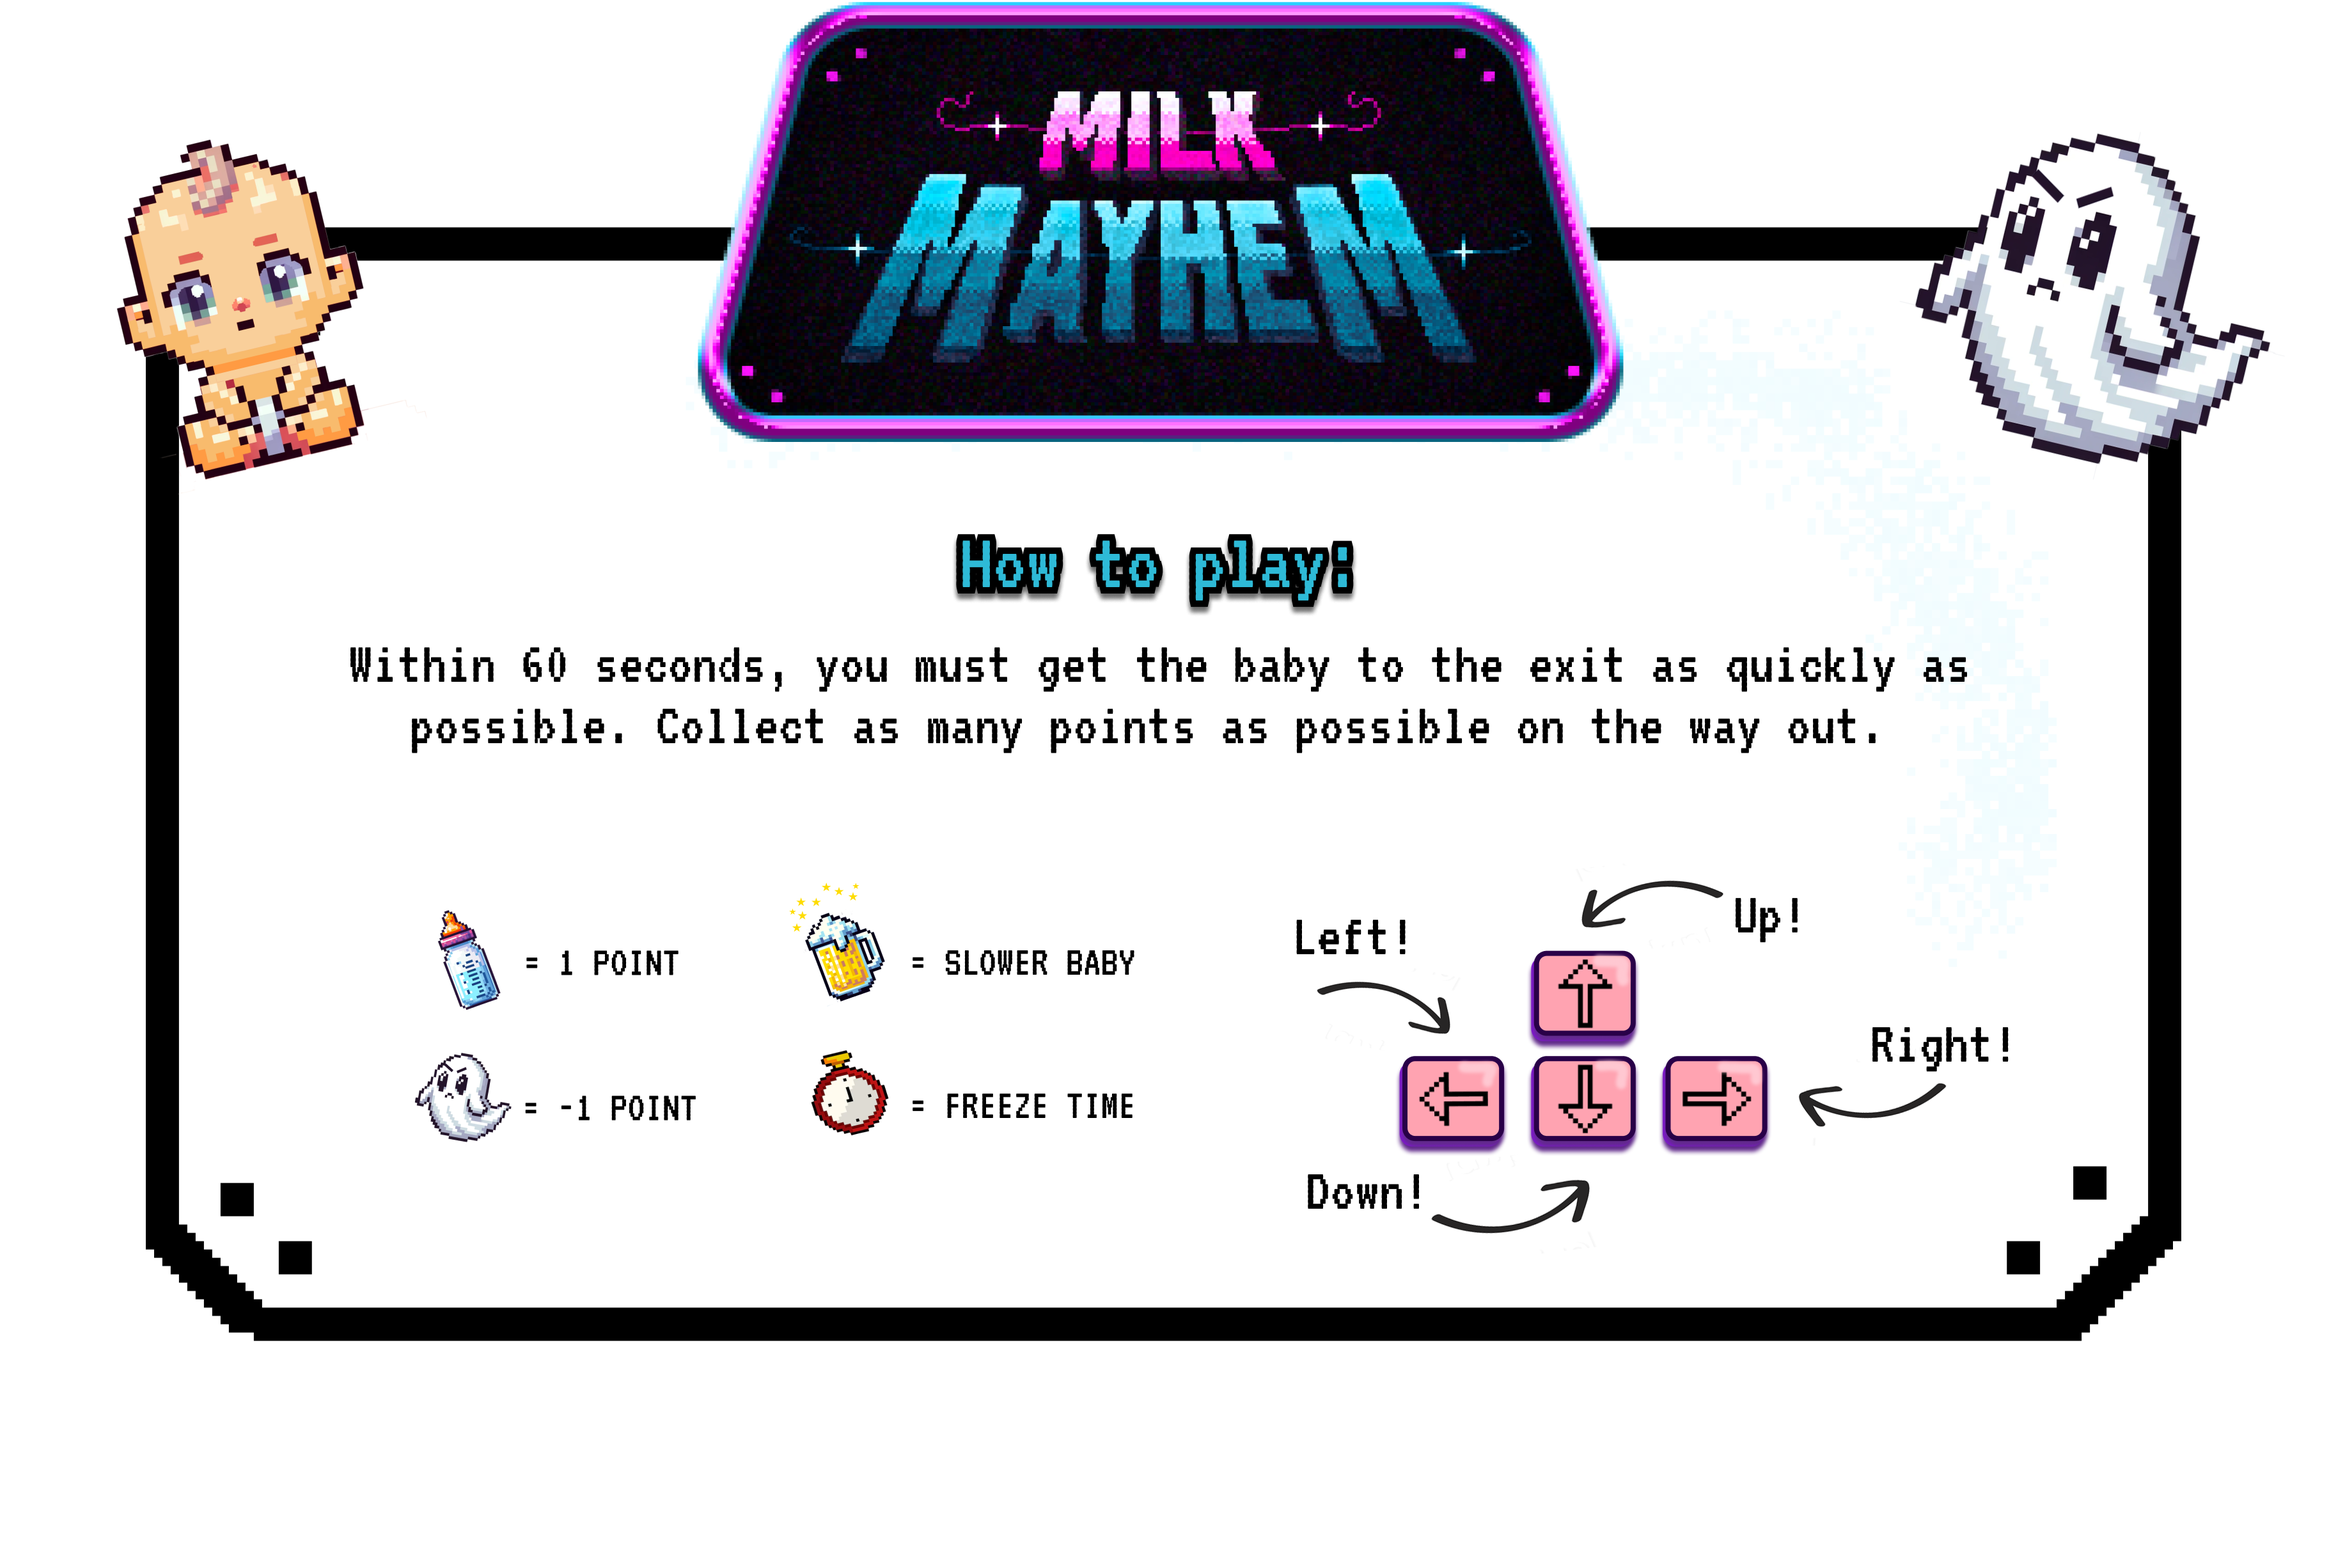
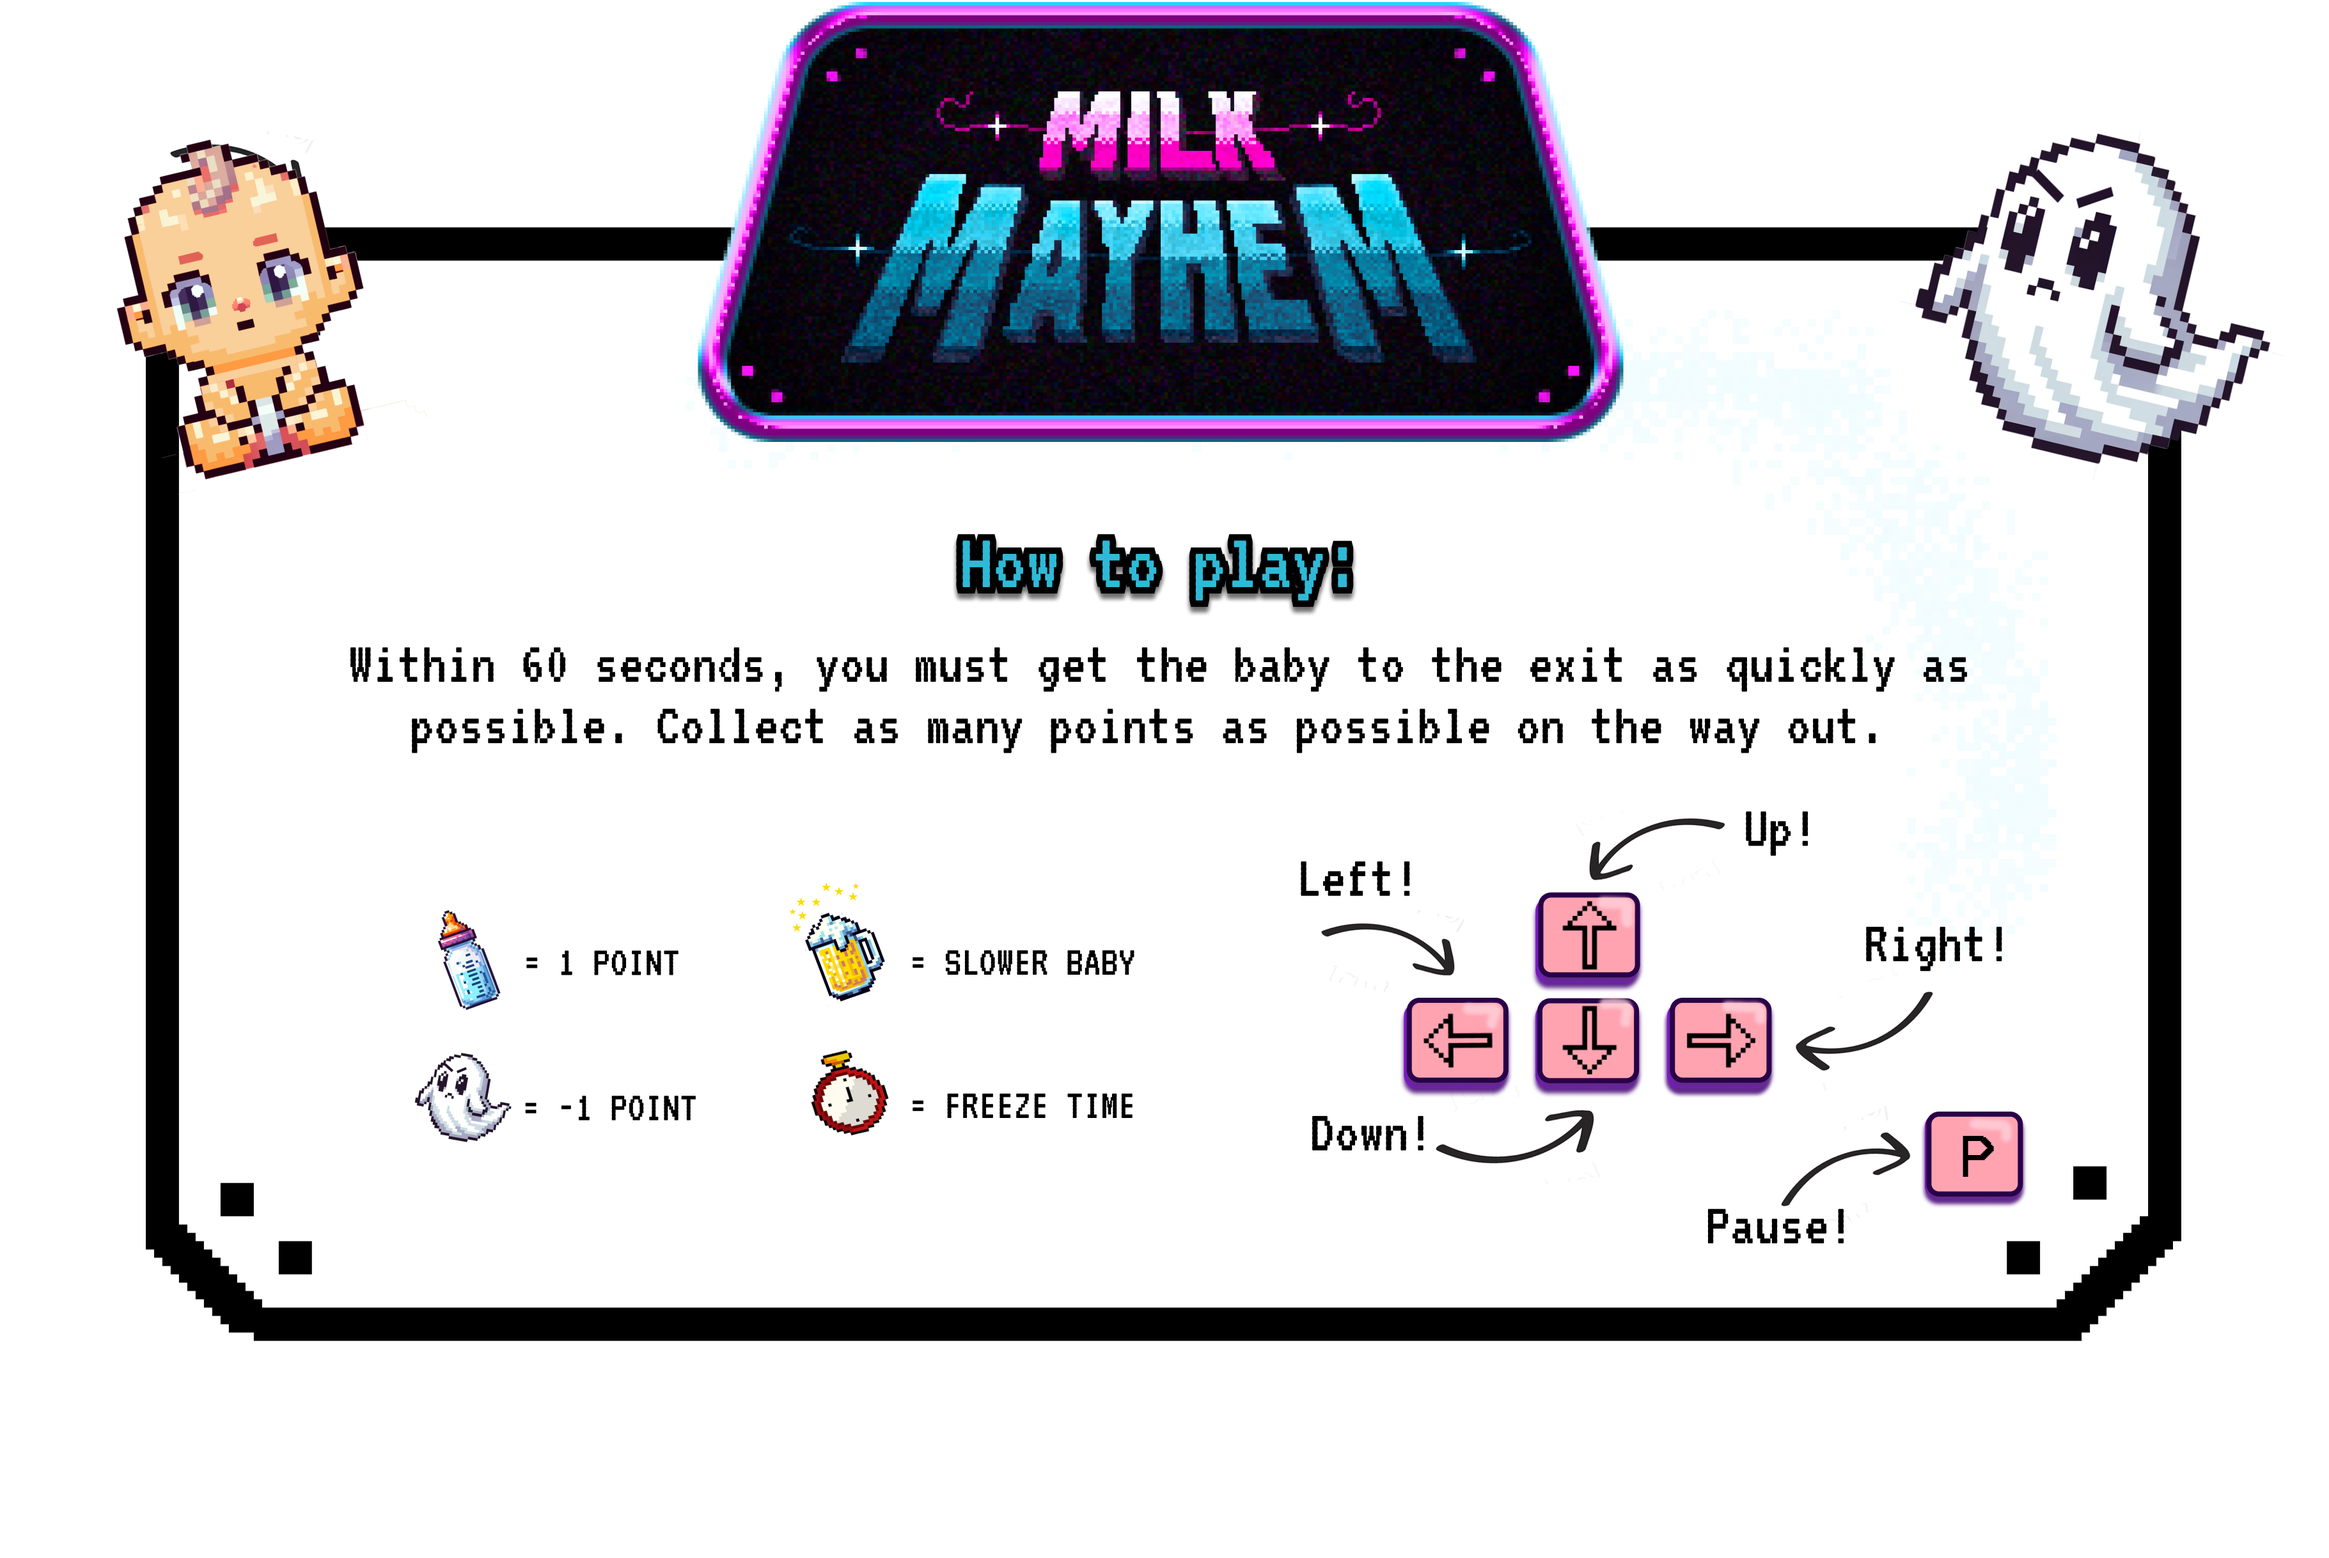
1. changed picture of beer and formula to the new ones. 2. Fixed a pause method, when you play and click "p" the gamer will be paused. 3. Escape button to return to startpage when the player is in "roadmap".
Thats all. Thank you.

diff --git a/src/Game/level.ts b/src/Game/level.ts
@@ -5,6 +5,7 @@ class Level {
   private score: number;
   private time: Time;
   private walls: Wall[];
+  private isPaused: boolean;
   private music: {
     beerSound: p5.SoundFile;
     formulaSound: p5.SoundFile;
@@ -42,7 +43,18 @@ class Level {
     //walls är en array som endast innehåller väggarna i aktiv level, detta hämtas med hjälp av filter som i sin tur hämtar alla väggar från entities
     this.walls = entities.filter((entity) => entity instanceof Wall) as Wall[];
 
+    this.isPaused = false;
+
     this.hasBabyReachedDoor = false;
+  }
+
+  public togglePause() {
+    this.isPaused = !this.isPaused;
+    if (this.isPaused) {
+      this.time.pause();
+    } else {
+      this.time.resume();
+    }
   }
 
   public isGameOver(): boolean {
@@ -123,7 +135,7 @@ class Level {
 
         setTimeout(() => {
           baby.effectedByGhost = false;
-        }, 1000);
+        }, 2000);
       }
     }
   }
@@ -143,6 +155,9 @@ class Level {
   }
 
   public update(): void {
+    if (this.isPaused) {
+      return;
+    }
     if (this.countDownToStart > 0) {
       this.countDownToStart -= deltaTime;
       return;
@@ -167,7 +182,7 @@ class Level {
   private drawCountDown() {
     push();
     noStroke();
-    fill(0, 0, 0, 95);
+    fill(0, 0, 0, 150);
     circle(500, 300, 500);
     pop();
 
@@ -187,6 +202,23 @@ class Level {
     fill("#64E12A");
     textAlign(CENTER);
     text(`Level: ${game.currentLevelNumber}`, width / 2, 29);
+    pop();
+  }
+
+  private drawPause() {
+    push();
+    noStroke();
+    fill(0, 0, 0, 150);
+    circle(500, 300, 500);
+    pop();
+
+    push();
+    textSize(250);
+    textFont("Orbitron");
+    textStyle(BOLD);
+    fill("#64E12A");
+    textAlign(CENTER);
+    text("| |", width / 2, 385);
     pop();
   }
 
@@ -212,6 +244,9 @@ class Level {
 
     if (this.countDownToStart > 0) {
       this.drawCountDown();
+    }
+    if (this.isPaused) {
+      this.drawPause();
     }
   }
 }

diff --git a/src/Game/levelFactory.ts b/src/Game/levelFactory.ts
@@ -77,15 +77,15 @@ class LevelFactory {
             );
           }
           if (selectedLevelGrid[y][x] === 13) {
-            const beerSize = 0.9 * blockSize;
-            const offset = 0.05 * blockSize;
+            const beerSize = 0.95 * blockSize;
+            const offset = 0.025 * blockSize;
             entities.push(
               new Beer(beerSize, x * blockSize + offset, y * blockSize + offset)
             );
           }
           if (selectedLevelGrid[y][x] === 14) {
-            const formulaSize = 0.7 * blockSize;
-            const offset = 0.15 * blockSize;
+            const formulaSize = 0.95 * blockSize;
+            const offset = 0.025 * blockSize;
             entities.push(
               new Formula(
                 formulaSize,

diff --git a/src/time.ts b/src/time.ts
@@ -4,6 +4,7 @@ class Time {
   private isPaused: boolean;
   public isGameOver: boolean;
   private freezeTimeLeft: number;
+  private paused: boolean;
 
   constructor(seconds: number) {
     this.seconds = seconds; //skapar 60 sek från start
@@ -11,6 +12,15 @@ class Time {
     this.isPaused = false;
     this.isGameOver = false;
     this.freezeTimeLeft = 0;
+    this.paused = false;
+  }
+
+  public pause() {
+    this.paused = true;
+  }
+
+  public resume() {
+    this.paused = false;
   }
 
   //metod som anropas för att frysa tiden
@@ -43,6 +53,9 @@ class Time {
 
   public update() {
     this.countDown();
+    if (this.paused) {
+      return;
+    }
   }
 
   private formateTimer() {

diff --git a/src/Game/game.ts b/src/Game/game.ts
@@ -57,12 +57,23 @@ class Game {
   }
 
   public keyPressed(key: string) {
+    if (this.currentPage === "level") {
+      if (key === "P" || key === "p") {
+        this.level.togglePause();
+      }
+    }
+    if (this.currentPage === "end") {
+      if (keyCode === ENTER) {
+        this.changePageToStartPage();
+      }
+    }
+
     if (this.currentPage === "roadmap") {
       //klicka på escape OM man är i roadmap för att komma tillbaka till startpage
-      if(key === "Escape") {
+      if (key === "Escape") {
         this.changePageToStartPage();
       } else {
-      this.roadMap.handleLevelSelection(key);
+        this.roadMap.handleLevelSelection(key);
       }
     }
   }

diff --git a/src/Game/startPage.ts b/src/Game/startPage.ts
@@ -37,11 +37,11 @@ class StartPage {
     textSize(25);
     fill("black");
     textFont("VT323");
-    text("PRESS", 527, 580);
+    text("PRESS", 540, 580);
     textStyle(BOLD);
-    text("ENTER", 586, 580);
+    text("R", 605, 580);
     textStyle(NORMAL);
-    text("FOR ROADMAP", 643, 580);
+    text("FOR ROADMAP", 628, 580);
     pop();
   }
 
@@ -68,7 +68,7 @@ class StartPage {
         game.changePage();
       }
     }
-    if (keyCode === ENTER) {
+    if (keyCode === 82) {
       game.changePageToRoadmap();
     }
   }

diff --git a/src/Game/endOfGame.ts b/src/Game/endOfGame.ts
@@ -47,7 +47,7 @@ class EndOfGame {
 
   //13 är enter
   public keyPressedEnd() {
-    if (keyCode === 13) {
+    if (keyCode === ENTER) {
       if (game.getCurrentPage() === "end") {
         game.changePageToStartPage();
       }
